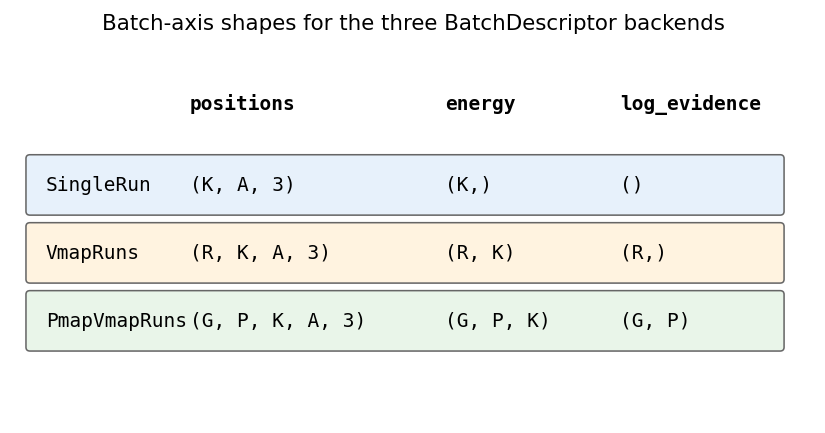
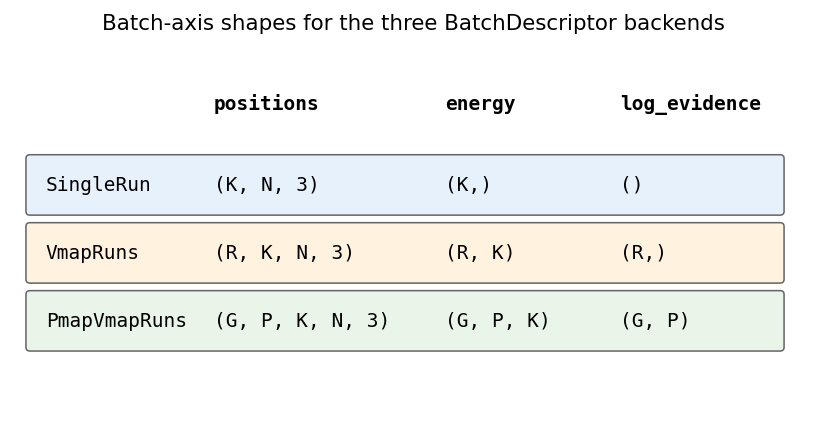
Removed stale references in docs and made usage of some symbols consistent

diff --git a/src/jaxrens/prior_mass.py b/src/jaxrens/prior_mass.py
@@ -6,21 +6,25 @@ weights ``a_n``, shared by the in-JIT evidence accumulator
 (:mod:`jaxrens.sampling.termination`) and post-processing
 (:mod:`jaxrens.postprocess.thermodynamics`).
 
-Convention follows pymatnest's ``ns_analyse.calc_log_a`` (SENS paper, PRX 4,
-031034 (2014), Eq. 3).  With ``N`` live walkers and ``P = n_cull`` walkers
-removed per iteration, dead point ``n`` (0-indexed over the global, per-cull
+Convention follows pymatnest's ``ns_analyse.calc_log_a`` (SENS paper,
+Martiniani et al., PRX 4, 031034 (2014), Eq. 3,
+doi:`10.1103/PhysRevX.4.031034 <https://doi.org/10.1103/PhysRevX.4.031034>`_).
+With ``K`` live walkers and ``n_cull`` walkers removed per iteration (the
+paper writes ``P`` for ``n_cull``; jaxrens reserves ``P`` for the
+replicas-per-GPU axis), dead point ``n`` (0-indexed over the global, per-cull
 sequence; within an iteration the culled walkers are ordered by descending
 energy) carries
 
 .. math::
 
-    \\log X_n = \\sum_{i=0}^{n} \\left[\\log(N - i\\%P) - \\log(N + 1 - i\\%P)\\right]
+    \\log X_n = \\sum_{i=0}^{n} \\left[\\log(K - i \\bmod n_\\mathrm{cull})
+              - \\log(K + 1 - i \\bmod n_\\mathrm{cull})\\right]
 
-    \\log a_n = \\log X_n - \\log(N + 1 - (n+1)\\%P)
+    \\log a_n = \\log X_n - \\log(K + 1 - (n+1) \\bmod n_\\mathrm{cull})
 
-so one full iteration contracts the prior mass by ``(N + 1 - P) / (N + 1)``.
-After ``D`` dead points each of the ``N`` live walkers carries
-``X_D / N`` (``X_D`` with ``D + 1`` terms, matching the one-step shift of
+so one full iteration contracts the prior mass by ``(K + 1 - n_cull) / (K + 1)``.
+After ``D`` dead points each of the ``K`` live walkers carries
+``X_D / K`` (``X_D`` with ``D + 1`` terms, matching the one-step shift of
 ``a_n = X_n - X_{n+1}``), so dead + live weights sum to the constant ``X_0``.
 
 NumPy only — imported by the JAX-free post-processing path.
@@ -32,7 +36,7 @@ import numpy as np
 
 
 def _shrinkage_terms(n_terms: int, n_live: int, n_cull: int) -> np.ndarray:
-    """Per-dead-point ``log((N - i%P) / (N + 1 - i%P))`` for ``i < n_terms``."""
+    """``log((K - i % n_cull) / (K + 1 - i % n_cull))`` for each ``i < n_terms``."""
     j = np.mod(np.arange(n_terms, dtype=np.int64), n_cull).astype(np.float64)
     n = float(n_live)
     return np.log(n - j) - np.log(n + 1.0 - j)
@@ -49,19 +53,19 @@ def check_n_cull(n_live: int, n_cull: int) -> None:
 
 
 def log_alpha(n_live: int, n_cull: int = 1) -> float:
-    """Log prior-mass contraction per iteration, ``log((N+1-P)/(N+1))``."""
+    """Log prior-mass contraction per iteration, ``log((K + 1 - n_cull) / (K + 1))``."""
     check_n_cull(n_live, n_cull)
     return float(np.log(n_live + 1.0 - n_cull) - np.log(n_live + 1.0))
 
 
 def log_prior_mass(n_dead, n_live: int, n_cull: int = 1) -> np.ndarray:
-    """``log X_n`` for dead points ``n = 0 .. n_dead-1``; shape ``(n_dead,)``."""
+    """``log X_n`` for dead points ``0 <= n < n_dead``; shape ``(n_dead,)``."""
     check_n_cull(n_live, n_cull)
     return np.cumsum(_shrinkage_terms(int(n_dead), n_live, n_cull))
 
 
 def log_dead_weights(n_dead, n_live: int, n_cull: int = 1) -> np.ndarray:
-    """``log a_n`` for dead points ``n = 0 .. n_dead-1``; shape ``(n_dead,)``.
+    """``log a_n`` for dead points ``0 <= n < n_dead``; shape ``(n_dead,)``.
 
     Identical to pymatnest's ``calc_log_a(n_dead, n_live, n_cull)``.
     """
@@ -74,7 +78,7 @@ def log_dead_weights(n_dead, n_live: int, n_cull: int = 1) -> np.ndarray:
 def log_live_weight(n_dead, n_live: int, n_cull: int = 1) -> np.ndarray:
     """Log weight carried by *each* live walker after ``n_dead`` dead points.
 
-    ``log(X_D / N)`` where ``X_D`` sums the first ``D + 1`` shrinkage terms.
+    ``log(X_D / K)`` where ``X_D`` sums the first ``D + 1`` shrinkage terms.
     Returns a 0-d float64 array.
     """
     check_n_cull(n_live, n_cull)

diff --git a/src/jaxrens/__init__.py b/src/jaxrens/__init__.py
@@ -5,10 +5,6 @@ only ``__version__``.  Public symbols are imported from their subpackages,
 e.g. ``from jaxrens.sampling.nested_sampling import run_ns`` or
 ``from jaxrens.postprocess.thermodynamics import free_energy``.
 
-(A curated top-level API — ``from jaxrens import run_ns`` — used to be
-re-exported lazily via PEP 562 ``__getattr__``; it is currently disabled,
-see the commented block below for how to reinstate it.)
-
 The float32 precision config still runs before any JAX op: every
 JAX-using subpackage / module imports :mod:`jaxrens._jax_init` at the
 top of its ``__init__.py`` (float32 by default; opt into 64-bit with
@@ -18,10 +14,6 @@ top of its ``__init__.py`` (float32 by default; opt into 64-bit with
 from __future__ import annotations
 
 from importlib.metadata import PackageNotFoundError, version
-
-# Used only by the disabled top-level-API block below; uncomment to reinstate.
-# from typing import TYPE_CHECKING
-
 
 try:
     # Single source of truth is the git tag (via setuptools-scm); report the

diff --git a/src/jaxrens/sampling/nested_sampling.py b/src/jaxrens/sampling/nested_sampling.py
@@ -1624,7 +1624,7 @@ def init_ns_multi_gpu(
             return arr.reshape((n_total,) + arr.shape[2:])
         return arr
 
-    positions_flat = _flatten_leading(positions)  # (G*P, K, A, 3)
+    positions_flat = _flatten_leading(positions)  # (G*P, K, N, 3)
     energies_flat = _flatten_leading(energies)  # (G*P, K)
     cells_flat = _flatten_leading(cells) if cells is not None else None
     mnc_flat = (
@@ -1929,13 +1929,13 @@ def run_ns_multi_gpu(
     n_total = n_gpu * n_per_gpu
 
     # Infer n_walkers from the position array.
-    # Positions may be (G*P, K, A, 3) or (G, P, K, A, 3).
+    # Positions may be (G*P, K, N, 3) or (G, P, K, N, 3).
     if n_walkers is None:
         if positions.ndim == 5:
-            # (G, P, K, A, 3) form
+            # (G, P, K, N, 3) form
             n_walkers = positions.shape[2]
         else:
-            # (G*P, K, A, 3) form
+            # (G*P, K, N, 3) form
             n_walkers = positions.shape[1]
 
     if termination_criteria is None:

diff --git a/src/jaxrens/cli/run.py b/src/jaxrens/cli/run.py
@@ -761,8 +761,8 @@ def run_multi_gpu_from_config(resolved, *, writer_mode: str = "w") -> dict:
     # before invoking this function.
 
     n_live = ns.n_live
-    positions = resolved.init.initial_positions  # (n_total, K, A, 3)
-    types = resolved.init.initial_types  # (A,)
+    positions = resolved.init.initial_positions  # (n_total, K, N, 3)
+    types = resolved.init.initial_types  # (N,)
     cells = resolved.init.initial_cells  # (n_total, K, 3, 3) | None
     energies = resolved.init.initial_energies  # (n_total, K)
 
@@ -1219,7 +1219,7 @@ def run_sharded_from_config(resolved, *, writer_mode: str = "w") -> dict:
     working_dir = resolved.output.working_dir
     working_dir.mkdir(parents=True, exist_ok=True)
 
-    positions = resolved.init.initial_positions  # (K, A, 3)
+    positions = resolved.init.initial_positions  # (K, N, 3)
     types = resolved.init.initial_types
     cells = resolved.init.initial_cells
     energies = resolved.init.initial_energies

diff --git a/docs/_static/figures/generate_concepts.py b/docs/_static/figures/generate_concepts.py
@@ -12,7 +12,6 @@ from __future__ import annotations
 
 import matplotlib.pyplot as plt
 import numpy as np
-
 from _common import FIGDIR
 
 
@@ -137,12 +136,12 @@ def fig_pytree_shapes() -> None:
 
     header = ["", "positions", "energy", "log_evidence"]
     rows = [
-        ("SingleRun", "(K, A, 3)", "(K,)", "()"),
-        ("VmapRuns", "(R, K, A, 3)", "(R, K)", "(R,)"),
-        ("PmapVmapRuns", "(G, P, K, A, 3)", "(G, P, K)", "(G, P)"),
+        ("SingleRun", "(K, N, 3)", "(K,)", "()"),
+        ("VmapRuns", "(R, K, N, 3)", "(R, K)", "(R,)"),
+        ("PmapVmapRuns", "(G, P, K, N, 3)", "(G, P, K)", "(G, P)"),
     ]
 
-    col_x = [0.4, 2.2, 5.4, 7.6]
+    col_x = [0.4, 2.5, 5.4, 7.6]
     header_y = 4.1
     row_ys = [3.1, 2.2, 1.3]
     cell_colors = {

diff --git a/src/jaxrens/utils/__init__.py b/src/jaxrens/utils/__init__.py
@@ -1,7 +1,6 @@
-"""Shared utilities: units, structure manipulation, logging setup."""
+"""Shared utilities: periodic-cell geometry and batch padding for ``jax.lax.map``."""
 
 import jaxrens._jax_init  # noqa: F401 -- pins jax_enable_x64=False before any JAX op
-
 from jaxrens.utils.cell import (
     check_cell_shape,
     get_cell_transformation,

diff --git a/docs/reference/notation.md b/docs/reference/notation.md
@@ -23,15 +23,15 @@ descriptor, with leading axes peeled off for simpler runs.
 | $G$ | `n_gpu` — number of devices along the `"gpu"` mesh axis (the `shard_map` axis). `G = 1` for single-GPU runs. | leading axis under {class}`~jaxrens.sampling.batch_descriptor.PmapVmapRuns` |
 | $P$ | `n_per_gpu` — number of NS instances per device. **Not pressure** in this section. | second axis under `PmapVmapRuns` |
 | $R$ | `n_runs` — total parallel NS instances. Equal to $G \cdot P$ when both axes are flattened. | leading axis under {class}`~jaxrens.sampling.batch_descriptor.VmapRuns` |
-| $K$ | `n_walkers` — live walkers per NS instance. | walker batch axis on every state field |
-| $N_\mathrm{atoms}$ | `n_atoms` — atoms per configuration. Static field; changing it triggers a JIT recompile. | trailing axis on `positions`, `types`, etc. |
+| $K$ | `n_walkers` (YAML key `run.n_live`) — live walkers per NS instance. Used for the walker count everywhere, including the NS formulas below. | walker batch axis on every state field |
+| $N$ (or $N_\mathrm{atoms}$) | `n_atoms` — atoms per configuration. Not to be confused with the bold species-count vector $\mathbf N(\sigma)$. Static field; changing it triggers a JIT recompile. | trailing axis on `positions`, `types`, etc. |
 | $S$ | `n_species` — distinct species labels. Static field. | length of $\mathbf c_i$, $\boldsymbol\mu_i$, $\mathbf N(\sigma)$ |
 | $M$ | number of move kernels in the MWG composer | length of `step_sizes` |
 
 A typical positions array under {class}`~jaxrens.sampling.batch_descriptor.PmapVmapRuns`
-has shape $(G, P, K, A, 3)$; under `VmapRuns` it collapses to
-$(R, K, A, 3)$; under {class}`~jaxrens.sampling.batch_descriptor.SingleRun`
-to $(K, A, 3)$.
+has shape $(G, P, K, N, 3)$; under `VmapRuns` it collapses to
+$(R, K, N, 3)$; under {class}`~jaxrens.sampling.batch_descriptor.SingleRun`
+to $(K, N, 3)$.
 
 ## Nested-sampling quantities
 
@@ -47,7 +47,7 @@ to $(K, A, 3)$.
 | $X$ | Prior mass in the constrained-likelihood transform: $X(L^\star) = \int_{L > L^\star} \pi\,\mathrm d r$. Maps the multi-D integral onto $X \in [0, 1]$. |
 | $L_i^\star$ | Likelihood threshold at iteration $i$. Equals the *worst* live walker's likelihood when the walker was retired. |
 | $E_{\max}$ | $H$-threshold equivalent to $L_i^\star$ (since $L = e^{-H}$ is monotonic in $-H$). The constraint MCMC enforces is $H(r) < E_{\max}$. |
-| $X_i$ | Prior mass remaining at iteration $i$. Expectation $X_i \approx \exp(-i / N)$ for $K = N$ live walkers and $n_\text{cull} = 1$. |
+| $X_i$ | Prior mass remaining at iteration $i$. Expectation $X_i \approx \exp(-i / K)$ for $K$ live walkers and $n_\text{cull} = 1$. |
 | $w_i$ | Trapezoid quadrature weight: $w_i = \tfrac{1}{2}(X_{i-1} - X_{i+1})$. |
 | $i$ | Outer-loop iteration index (Python). Used in `manager.fires(i)` and similar. |
 
@@ -64,10 +64,10 @@ the replica $i \in \{0, \dots, n_\text{total} - 1\}$.
 | $T$ | Temperature. **Not a free parameter in NS** — the role of temperature is played by the threshold $E_{\max}$. Mentioned only in cross-references to ordinary MCMC. |
 | $\boldsymbol\mu$ | Per-species chemical potential vector, length $S$. |
 | $\mathbf N(\sigma)$ | Species-count vector of a configuration, $\mathbf N(\sigma)_s = \#\{a : \sigma_a = s\}$. |
-| $\mathbf c$ | Target composition vector, $\sum_s c_s = A$. Each XRENS replica fixes one. |
+| $\mathbf c$ | Target composition vector, $\sum_s c_s = N$. Each XRENS replica fixes one. |
 | $\Omega$ | Grand-canonical energy used in semi-grand swaps: $\Omega = U - \boldsymbol\mu \cdot \mathbf N(\sigma)$. |
 | $h$ | Cell matrix (3×3), columns are the lattice vectors. |
-| $\mathbf q$ | Position array (per atom: ℝ³, per walker: $(A, 3)$). |
+| $\mathbf q$ | Position array (per atom: ℝ³, per walker: $(N, 3)$). |
 | $\sigma$ | Species / type array. Integer-valued, per-atom. |
 
 ## MWG and move kernels

diff --git a/docs/reference/index.rst b/docs/reference/index.rst
@@ -32,46 +32,21 @@ modules sized by lines of code — sets the stage:
 
 .. currentmodule:: jaxrens
 
-.. important::
+.. note::
 
-   There is no curated top-level API right now: ``import jaxrens`` exposes
-   only ``__version__``.  Import public symbols from their subpackage —
-   ``from jaxrens.sampling.nested_sampling import run_ns`` — and browse the
-   :ref:`Subpackages <subpackages>` tree below to find them.
-
-.. dropdown:: Maintainer note — reinstating the top-level API
-   :class-title: sd-fs-6
-
-   The curated top-level API (``from jaxrens import run_ns``,
-   ``jaxrens.free_energy``, …) is disabled; see the commented lazy-export
-   block in ``src/jaxrens/__init__.py``.  Keeping it off is deliberate:
-   ``import jaxrens`` must not import JAX (see :doc:`../dev/contributing`),
-   and a lazy re-export surface is easy to break that rule with.
-
-   When it was enabled this page listed these symbols grouped by theme:
-
-   * *High-level entry points:* ``run_ns``, ``run_from_config``,
-     ``init_ns``, ``ns_step``, ``build_mwg``, ``load_backend``
-   * *State and configuration:* ``MoveKernel``, ``MCState``,
-     ``make_mc_state_class``, ``NSConfig``, ``MoveConfig``,
-     ``BackendConfig``, ``OutputConfig``
-   * *Backend interfaces:* ``EnergyBackend``, ``EnsembleBackend``,
-     ``make_ensemble_params``
-   * *Post-processing:* ``calc_log_weights``, ``calc_log_weights_live``,
-     ``log_evidence``, ``partition_function``, ``heat_capacity``,
-     ``expectation``, ``free_energy``
-
-   To reinstate, uncomment the lazy-export block in
-   ``src/jaxrens/__init__.py`` and restore the four ``autosummary``
-   sections here (recoverable from git history).
+   ``import jaxrens`` exposes only ``__version__`` (and does not import
+   JAX, see :doc:`../dev/contributing`).  Import public symbols from their
+   subpackage — ``from jaxrens.sampling.nested_sampling import run_ns`` —
+   and browse the :ref:`package tree <subpackages>` below to find them.
 
 .. _subpackages:
 
-Subpackages
------------
+Subpackages and modules
+-----------------------
 
 For the internal organization (move kernels, adaptation, init
-helpers, I/O writers), browse the subpackages directly:
+helpers, constraints, I/O writers), browse the subpackages and
+top-level modules directly:
 
 .. autosummary::
    :toctree: api/
@@ -81,6 +56,10 @@ helpers, I/O writers), browse the subpackages directly:
    sampling
    state
    init
+   constraints
    io
    postprocess
    cli
+   utils
+   prior_mass
+   unvalidated

diff --git a/docs/user/concepts/ns_loop.md b/docs/user/concepts/ns_loop.md
@@ -27,13 +27,13 @@ collapses every equi-likelihood shell into a scalar *prior mass*
 $X \in [0, 1]$. Sort the $X$'s by decreasing likelihood and the
 integral becomes 1-D.
 
-At iteration $i$, NS maintains $N$ live walkers all drawn from the
+At iteration $i$, NS maintains $K$ live walkers all drawn from the
 prior restricted to $L > L_i^\star$. The worst walker is retired —
 it becomes a *dead point* with likelihood $L_i^\star$ — and replaced
 by a new one drawn from the same constrained prior. In expectation,
 
 $$
-X_i \approx \exp(-i/N),
+X_i \approx \exp(-i/K),
 $$
 
 and the trapezoid-rule approximation gives the evidence estimate
@@ -187,8 +187,8 @@ walker distribution concentrates toward the ground state of $H$.
 - **n_cull > 1**: retire the `n_cull` worst walkers per iteration, each
   refilled from a distinct random survivor; every culled walker is a dead
   point.  One iteration contracts the prior mass by
-  $(N + 1 - n_\mathrm{cull})/(N + 1)$, and within an iteration dead point
-  $j$ (descending energy) carries the shrinkage $(N - j)/(N + 1 - j)$ —
+  $(K + 1 - n_\mathrm{cull})/(K + 1)$, and within an iteration dead point
+  $j$ (descending energy) carries the shrinkage $(K - j)/(K + 1 - j)$ —
   pymatnest's convention, implemented once in {mod}`jaxrens.prior_mass`.
   See {attr}`jaxrens.state.config.NSConfig.n_cull`.
 - **n_extra**: reseed MCMC chains starting from additional random

diff --git a/docs/user/concepts/pytree_state.md b/docs/user/concepts/pytree_state.md
@@ -32,9 +32,9 @@ flowchart LR
         direction LR
         subgraph mc_config["configuration"]
             direction TB
-            POS["positions: (K, A, 3)"]
+            POS["positions: (K, N, 3)"]
             CELL["cell: (K, 3, 3)"]
-            TYP["types: (K, A)"]
+            TYP["types: (K, N)"]
             EN["energy: (K,)"]
         end
         subgraph mc_mcmc["MCMC stats"]
@@ -116,7 +116,7 @@ so callbacks can branch on it.
 ```
 
 - **`SingleRun`** — one process, one GPU, one NS instance.
-  `K = n_walkers`, `A = n_atoms`.
+  `K = n_walkers`, `N = n_atoms`.
 - **`VmapRuns`** — one GPU, `R = n_runs` parallel NS instances.
   Used on CPU nodes or when `len(jax.local_devices()) == 1`.
 - **`PmapVmapRuns`** — `G × P` replicas distributed across `G` GPUs
@@ -124,7 +124,7 @@ so callbacks can branch on it.
   `jax.jit(shard_map(vmap(...)))` over a `"gpu"`-named device mesh.
 - **`ShardedSingleRun`** — *one* NS run whose `K` walkers are split
   into `G` chunks of `K / G`, one per GPU (`run.shard_n_gpu > 1`).
-  Population leaves are `(G, K / G, A, 3)`; the leading axis is a
+  Population leaves are `(G, K / G, N, 3)`; the leading axis is a
   *sharding* axis, not a replica axis, so `n_runs == 1`. The step is
   `ns_step_sharded`, which uses `all_gather` / `psum` collectives over
   a `"shard"`-named mesh to act on the global population. This is for

diff --git a/docs/user/concepts/schema_resolve.md b/docs/user/concepts/schema_resolve.md
@@ -506,7 +506,7 @@ multi-replica runs. The shape depends on the batcher:
 |---|---|---|
 | `base_backend` | `Hamiltonian(model, [SoftCoreTerm?])` — no ensemble term | same |
 | `ensemble_params_per_run` | length-1 tuple | length-`n_total` tuple, flat order `g * P + p` |
-| `init.initial_positions` shape | `(n_live, A, 3)` | `(n_total, n_live, A, 3)` |
+| `init.initial_positions` shape | `(K, N, 3)` | `(n_total, K, N, 3)` |
 | `init.initial_energies` shape | `(n_live,)` | `(n_total, n_live)` |
 | `batcher` | `SingleRun()` | `PmapVmapRuns(n_gpu, n_per_gpu)` |
 

diff --git a/docs/user/concepts/backends.md b/docs/user/concepts/backends.md
@@ -30,8 +30,8 @@ potentials — exposes the same call signature:
 
 ```python
 result = backend(
-    positions,        # (A, 3)
-    species,          # (A,)   z-table indices
+    positions,        # (N, 3)
+    species,          # (N,)   z-table indices
     cell,             # (3, 3) lattice vectors as rows
     max_neighbors,    # int    MLIP-side buffer size
     ensemble_params,  # dict   {"pressure": ..., "chemical_potentials": ...} or None
